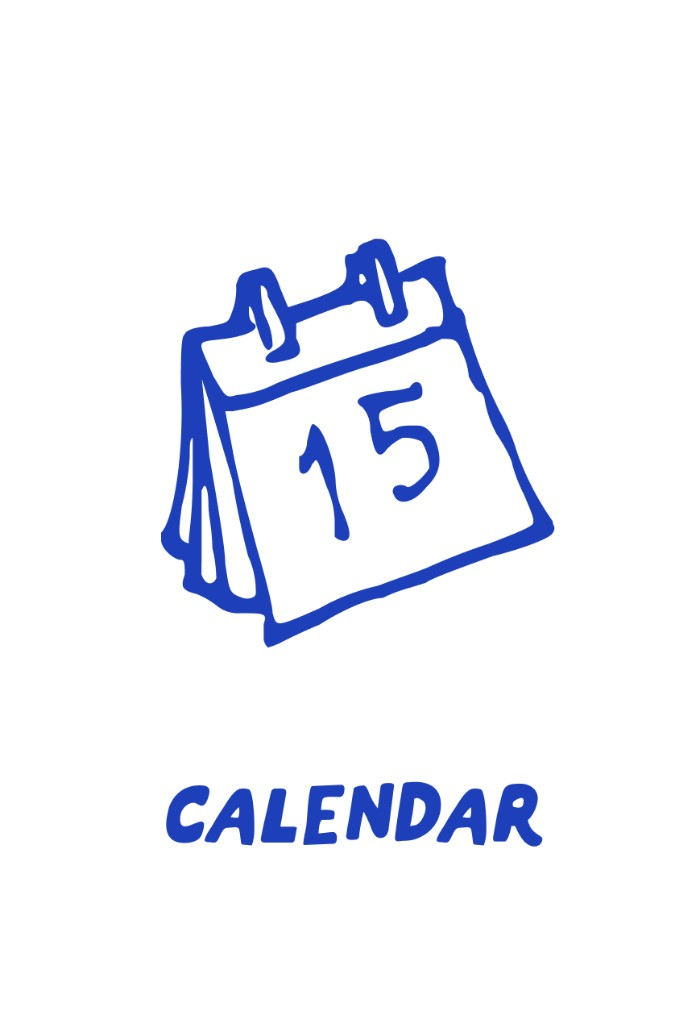
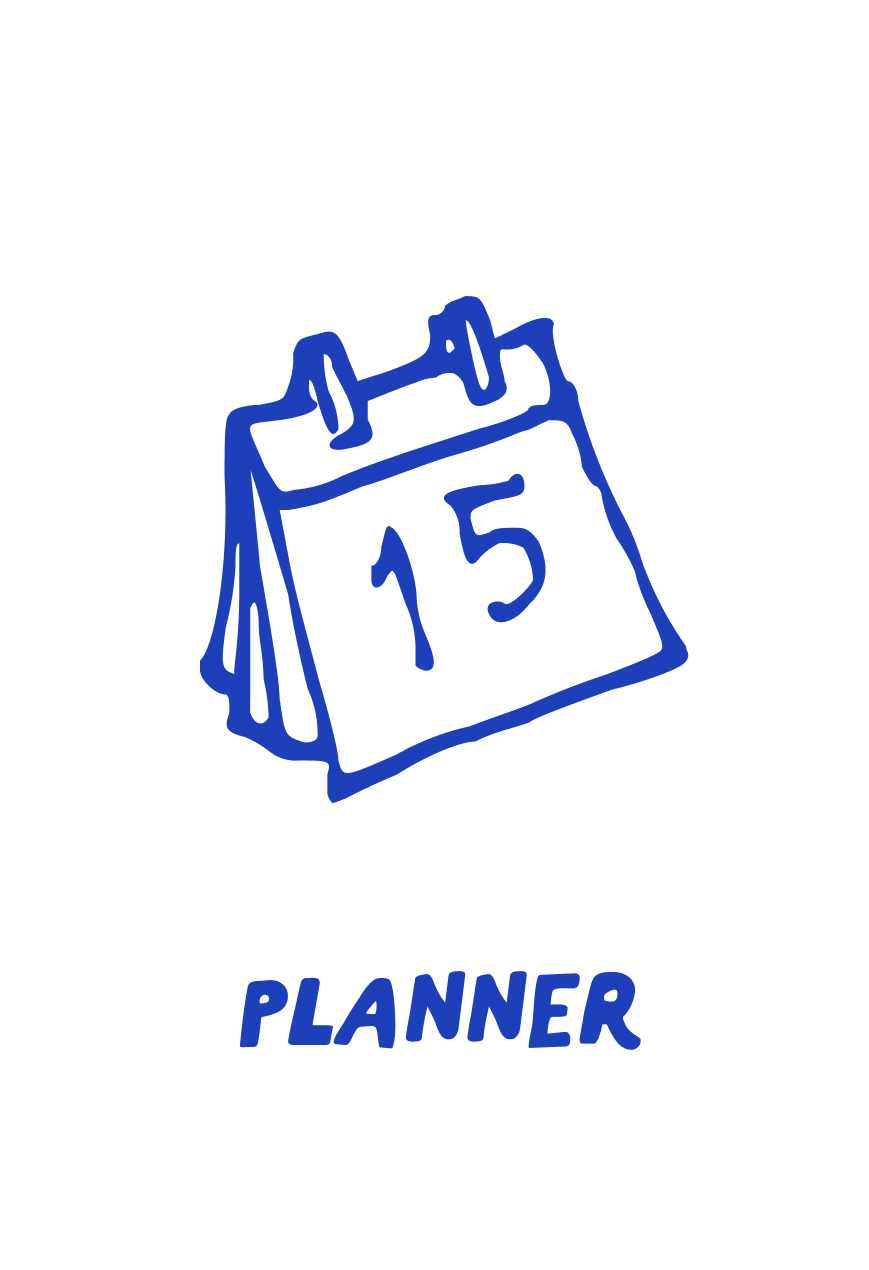
DOODLE 로고·스플래시·홈 격자 아이콘 교체 및 기본 글꼴 굵기 개선
새 브랜드 아이콘과 스플래시를 PWA·메타 태그에 반영하고, 메인 메뉴 격자와 앱 기본 폰트 가독성을 함께 정리합니다.

Changed region(s): [[0.24, 0.75, 0.78, 0.8438]]

diff --git a/index.html b/index.html
@@ -28,13 +28,13 @@
     />
     <meta property="og:url" content="https://timeisprice.com/" />
     <meta property="og:locale" content="ko_KR" />
-    <meta property="og:image" content="https://timeisprice.com/icon-512.png?v=money-is-time-logo-1" />
+    <meta property="og:image" content="https://timeisprice.com/icon-512.png?v=doodle-logo-1" />
     <meta property="og:image:width" content="512" />
     <meta property="og:image:height" content="512" />
     <meta property="og:image:alt" content="Money is time 앱 로고" />
     <meta name="twitter:card" content="summary_large_image" />
     <meta name="twitter:title" content="Money is time" />
-    <meta name="twitter:image" content="https://timeisprice.com/icon-512.png?v=money-is-time-logo-1" />
+    <meta name="twitter:image" content="https://timeisprice.com/icon-512.png?v=doodle-logo-1" />
     <meta
       name="twitter:description"
       content="KPI·목표·시간 기록·일정을 한곳에서 관리하는 웹 서비스입니다."
@@ -47,23 +47,23 @@
         "name": "Money is time",
         "url": "https://timeisprice.com/",
         "description": "KPI·목표·시간 기록·일정·가계부를 연결하는 생산성 플래너 웹 서비스입니다.",
-        "image": "https://timeisprice.com/icon-512.png?v=money-is-time-logo-1"
+        "image": "https://timeisprice.com/icon-512.png?v=doodle-logo-1"
       }
     </script>
     <!-- manifest·favicon·og:image 캐시: v= 쿼리 변경 시 검색·미리보기가 새 로고를 받음 -->
-    <link rel="manifest" href="/manifest.json?v=money-is-time-logo-2" />
+    <link rel="manifest" href="/manifest.json?v=doodle-logo-1" />
     <link rel="preload" href="/fonts/LP-KyoboHandwriting2025.otf" as="font" type="font/otf" crossorigin />
-    <link rel="preload" href="/toolbaricons/splash/splash-screen.svg" as="image" type="image/svg+xml" />
-    <link rel="icon" type="image/png" sizes="512x512" href="/icon-512.png?v=money-is-time-logo-1" />
-    <link rel="icon" type="image/png" sizes="192x192" href="/icon-192.png?v=money-is-time-logo-1" />
-    <link rel="apple-touch-icon" sizes="180x180" href="/apple-touch-icon.png?v=money-is-time-logo-1" />
-    <link rel="apple-touch-icon" sizes="192x192" href="/icon-192.png?v=money-is-time-logo-1" />
+    <link rel="preload" href="/toolbaricons/splash/splash-screen.png?v=good-things-splash-png-1" as="image" type="image/png" />
+    <link rel="icon" type="image/png" sizes="512x512" href="/icon-512.png?v=doodle-logo-1" />
+    <link rel="icon" type="image/png" sizes="192x192" href="/icon-192.png?v=doodle-logo-1" />
+    <link rel="apple-touch-icon" sizes="180x180" href="/apple-touch-icon.png?v=doodle-logo-1" />
+    <link rel="apple-touch-icon" sizes="192x192" href="/icon-192.png?v=doodle-logo-1" />
     <!-- iOS 홈 화면 실행 직후 네이티브 스플래시(전체 화면 물결+수달) -->
-    <link rel="apple-touch-startup-image" href="/pwa-splash-portrait-1179.png?v=good-things-splash-svg-1" media="(device-width: 393px) and (device-height: 852px) and (-webkit-device-pixel-ratio: 3) and (orientation: portrait)" />
-    <link rel="apple-touch-startup-image" href="/pwa-splash-portrait-1179.png?v=good-things-splash-svg-1" media="(device-width: 390px) and (device-height: 844px) and (-webkit-device-pixel-ratio: 3) and (orientation: portrait)" />
-    <link rel="apple-touch-startup-image" href="/pwa-splash-portrait-1284.png?v=good-things-splash-svg-1" media="(device-width: 428px) and (device-height: 926px) and (-webkit-device-pixel-ratio: 3) and (orientation: portrait)" />
-    <link rel="apple-touch-startup-image" href="/pwa-splash-portrait-1170.png?v=good-things-splash-svg-1" media="(device-width: 430px) and (device-height: 932px) and (-webkit-device-pixel-ratio: 3) and (orientation: portrait)" />
-    <link rel="apple-touch-startup-image" href="/pwa-splash-portrait-1080.png?v=good-things-splash-svg-1" media="(orientation: portrait)" />
+    <link rel="apple-touch-startup-image" href="/pwa-splash-portrait-1179.png?v=good-things-splash-png-1" media="(device-width: 393px) and (device-height: 852px) and (-webkit-device-pixel-ratio: 3) and (orientation: portrait)" />
+    <link rel="apple-touch-startup-image" href="/pwa-splash-portrait-1179.png?v=good-things-splash-png-1" media="(device-width: 390px) and (device-height: 844px) and (-webkit-device-pixel-ratio: 3) and (orientation: portrait)" />
+    <link rel="apple-touch-startup-image" href="/pwa-splash-portrait-1284.png?v=good-things-splash-png-1" media="(device-width: 428px) and (device-height: 926px) and (-webkit-device-pixel-ratio: 3) and (orientation: portrait)" />
+    <link rel="apple-touch-startup-image" href="/pwa-splash-portrait-1170.png?v=good-things-splash-png-1" media="(device-width: 430px) and (device-height: 932px) and (-webkit-device-pixel-ratio: 3) and (orientation: portrait)" />
+    <link rel="apple-touch-startup-image" href="/pwa-splash-portrait-1080.png?v=good-things-splash-png-1" media="(orientation: portrait)" />
     <!-- FOUC 방지 + 첫 페인트부터 교보 손글씨(또는 저장된 화면 글꼴) -->
     <style>
       @font-face {
@@ -83,9 +83,11 @@
       :root {
         --lp-app-font-family: "LP Kyobo Handwriting", system-ui, -apple-system, "Segoe UI",
           Roboto, sans-serif;
+        --lp-app-font-weight-base: 500;
       }
       html {
         font-family: var(--lp-app-font-family);
+        font-weight: var(--lp-app-font-weight-base);
       }
       button,
       input,
@@ -289,10 +291,10 @@
     >
       <img
         class="lp-unified-loading__screen-img"
-        src="/toolbaricons/splash/splash-screen.svg"
+        src="/toolbaricons/splash/splash-screen.png?v=good-things-splash-png-1"
         alt=""
-        width="1046"
-        height="1609"
+        width="665"
+        height="1024"
         decoding="async"
         fetchpriority="high"
       />

diff --git a/src/styles/calendar.css b/src/styles/calendar.css
@@ -28,7 +28,7 @@
   --cal-text-muted: rgba(30, 61, 93, 0.52);
   --cal-today-accent: #1e4d7b;
   /** 오늘 날짜 숫자 원형 — 진한 블루 배경 + 흰 글자 */
-  --cal-today-circle-bg: #3a6ea8;
+  --cal-today-circle-bg: #1d40ba;
   --cal-today-circle-fg: #fff;
   /** 기간 막대(시작≠마감): 리스트(섹션) 색과 무관하게 동일 */
   --cal-range-span-bar-bg: #d6e8f4;
@@ -137,6 +137,7 @@
   min-width: 2.75rem;
   padding: 0 0.4rem;
   font-family: var(--lp-calendar-month-font-family);
+  font-synthesis: none;
   font-size: 0.9375rem;
   font-weight: 700;
   line-height: 1.1;
@@ -186,6 +187,7 @@
 .calendar-view:not(.calendar-view--mobile-workschedule) .calendar-nav-month,
 .calendar-annual-row-month {
   font-family: var(--lp-calendar-month-font-family);
+  font-synthesis: none;
   color: #1d40ba;
 }
 
@@ -195,6 +197,7 @@
 
 .calendar-view:not(.calendar-view--mobile-workschedule) .calendar-monthly-top-bar-date-num {
   font-family: var(--lp-calendar-month-font-family);
+  font-synthesis: none;
   color: #1d40ba;
 }
 
@@ -1305,9 +1308,9 @@
   z-index: 1;
   flex: 1 1 auto;
   min-height: 0;
-  font-size: 0.6875rem;
+  font-size: 0.75rem;
   line-height: 1.35;
-  color: var(--cal-text-muted);
+  color: rgba(30, 61, 93, 0.64);
   pointer-events: none;
 }
 
@@ -1413,7 +1416,7 @@
   display: flex;
   align-items: center;
   border-radius: 4px;
-  font-size: 0.6875rem;
+  font-size: 0.75rem;
   font-weight: 600;
   line-height: 1.25;
   padding: 0.12rem 0.3rem;
@@ -1462,7 +1465,7 @@
 
 .calendar-monthly-span-bar.is-past,
 .calendar-monthly-span-bar.is-past .calendar-monthly-span-bar-text {
-  color: rgba(30, 61, 93, 0.58);
+  color: rgba(30, 61, 93, 0.66);
 }
 
 .calendar-monthly-span-bar.is-past.calendar-monthly-span-bar--todo {
@@ -2025,12 +2028,13 @@
   }
 
   .calendar-monthly-day-entries {
-    font-size: 0.625rem;
+    font-size: 0.6875rem;
     line-height: 1.32;
+    color: rgba(30, 61, 93, 0.62);
   }
 
   .calendar-monthly-span-bar {
-    font-size: 0.625rem;
+    font-size: 0.6875rem;
     line-height: 1.2;
     padding: 0.1rem 0.25rem;
   }
@@ -2127,11 +2131,11 @@
   }
 
   .calendar-monthly-span-bar {
-    font-size: 0.6875rem;
+    font-size: 0.75rem;
   }
 
   .calendar-monthly-day-entries {
-    font-size: 0.6875rem;
+    font-size: 0.75rem;
   }
 }
 

diff --git a/src/utils/lpUnifiedLoadingUi.js b/src/utils/lpUnifiedLoadingUi.js
@@ -1,7 +1,8 @@
 /** 앱 전역 통일 로딩·스플래시 UI */
 
 export const LP_UNIFIED_LOADING_MESSAGE = "Good things are coming";
-export const LP_SPLASH_SCREEN_URL = "/toolbaricons/splash/splash-screen.svg";
+export const LP_SPLASH_SCREEN_URL =
+  "/toolbaricons/splash/splash-screen.png?v=good-things-splash-png-1";
 
 function escapeHtml(str) {
   return String(str ?? "")
@@ -17,8 +18,8 @@ export function renderLpUnifiedLoadingInnerMarkup() {
       class="lp-unified-loading__screen-img"
       src="${LP_SPLASH_SCREEN_URL}"
       alt=""
-      width="1046"
-      height="1609"
+      width="665"
+      height="1024"
       decoding="async"
       fetchpriority="high"
     />

diff --git a/src/styles/lp-app-font.css b/src/styles/lp-app-font.css
@@ -6,10 +6,13 @@
 :root {
   --lp-app-font-family: "LP Kyobo Handwriting", system-ui, -apple-system, "Segoe UI",
     Roboto, sans-serif;
+  /* 앱 기본 글꼴(교보·시스템) — 본문이 너무 가늘지 않게 */
+  --lp-app-font-weight-base: 500;
 }
 
 html {
   font-family: var(--lp-app-font-family);
+  font-weight: var(--lp-app-font-weight-base);
   text-rendering: auto;
   -webkit-text-size-adjust: 100%;
   text-size-adjust: 100%;
@@ -20,7 +23,9 @@ html {
 body,
 #app {
   font-family: inherit;
-  font-synthesis: none;
+  font-weight: inherit;
+  /* 단일 굵기 OTF에서도 font-weight 600·700이 반영되도록 */
+  font-synthesis: weight;
 }
 
 button,

diff --git a/public/sw.js b/public/sw.js
@@ -1,6 +1,6 @@
 /* PWA 서비스 워커 — 앱 설치·오프라인 */
 /** 번들·아이콘 등 캐시 버전 (전략 바꿀 때만 올리면 이전 캐시 정리됨) */
-const ASSET_CACHE = "tip-assets-v25";
+const ASSET_CACHE = "tip-assets-v28";
 /** HTML 셸 캐시 — 홈 화면에서 열 때 즉시 표시용 */
 const HTML_CACHE = "tip-html-v4";
 
@@ -17,7 +17,7 @@ const PWA_INSTALL_CORE_PATHS = [
   "/icon-maskable-192.png",
   "/icon-maskable-512.png",
   "/apple-touch-icon.png",
-  "/toolbaricons/splash/splash-screen.svg",
+  "/toolbaricons/splash/splash-screen.png",
   "/fonts/LP-KyoboHandwriting2025.otf",
 ];
 

diff --git a/src/styles/todo-list.css b/src/styles/todo-list.css
@@ -137,7 +137,7 @@
   background: transparent !important;
   box-shadow: none;
   font-size: 0.8125rem;
-  font-weight: 400;
+  font-weight: 500;
   letter-spacing: -0.02em;
   line-height: 1.2;
   color: rgba(30, 61, 93, 0.45);
@@ -412,7 +412,7 @@
 
 .todo-card-name {
   font-size: 0.9375rem;
-  font-weight: 400;
+  font-weight: 500;
   color: var(--text-ink);
   line-height: 1.35;
   word-break: break-word;

diff --git a/src/main.css b/src/main.css
@@ -541,7 +541,7 @@ html.lp-task-log-modal-open #signin-page {
   margin: 0;
   padding: 0;
   font-size: clamp(1.85rem, 6.5vw, 2.45rem);
-  font-weight: 400;
+  font-weight: 500;
   letter-spacing: 0.085em;
   color: #1e4d7b;
   line-height: 1.15;

diff --git a/src/styles/lp-app-loading.css b/src/styles/lp-app-loading.css
@@ -1,4 +1,4 @@
-/* 앱 전역 통일 로딩·스플래시 — splash-screen.svg 전체 화면 */
+/* 앱 전역 통일 로딩·스플래시 — splash-screen.png 전체 화면 */
 
 html.lp-splash-active {
   overflow: hidden;
